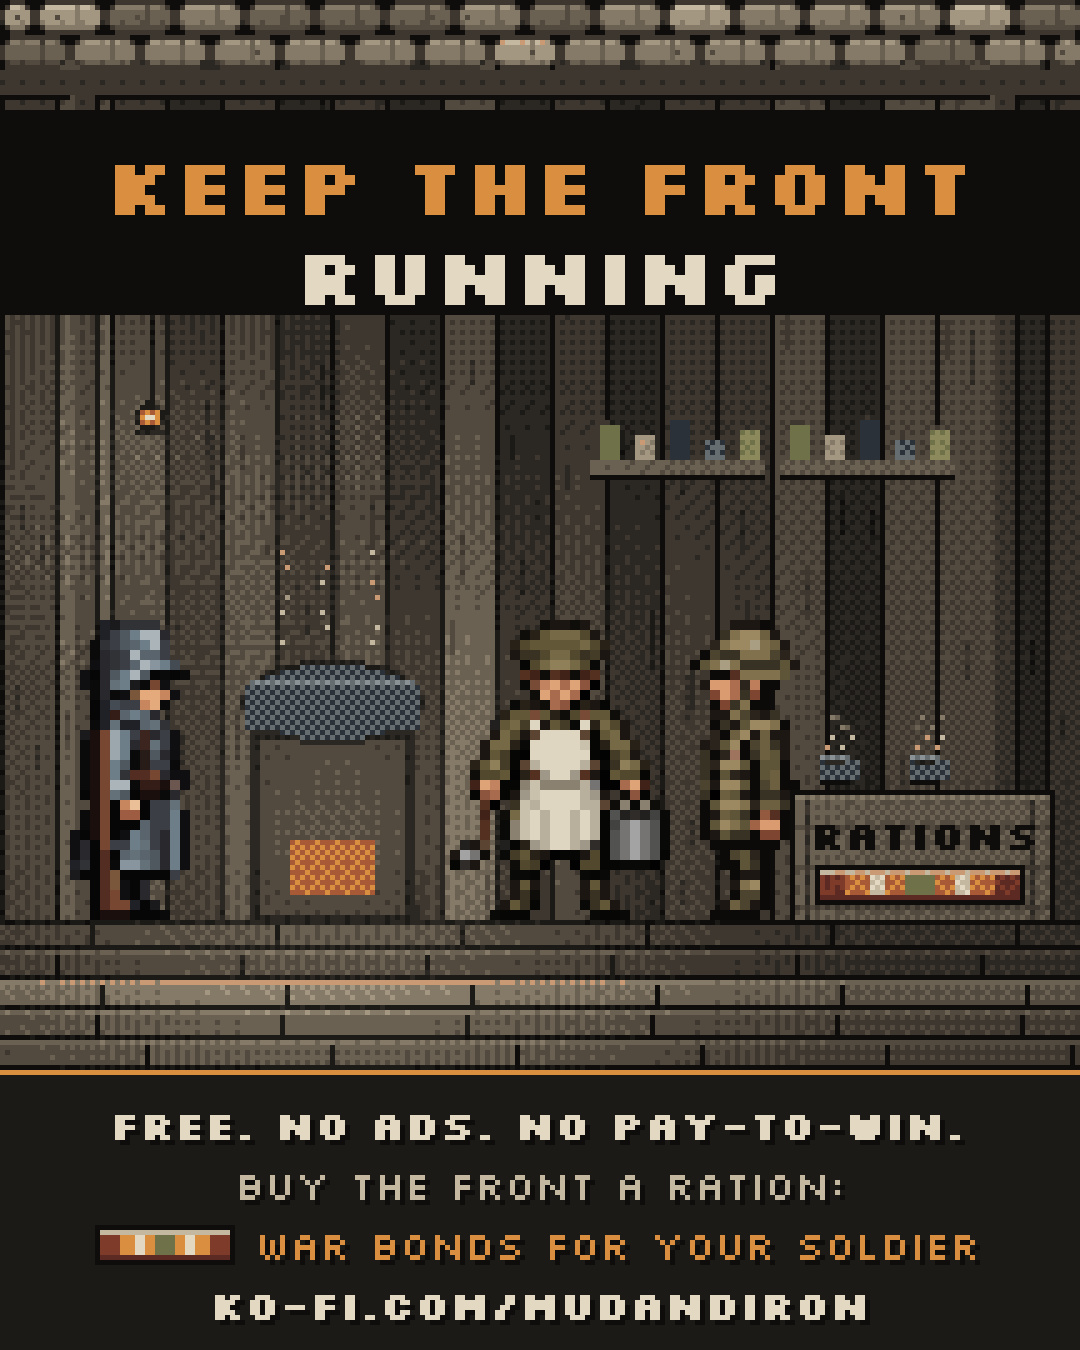
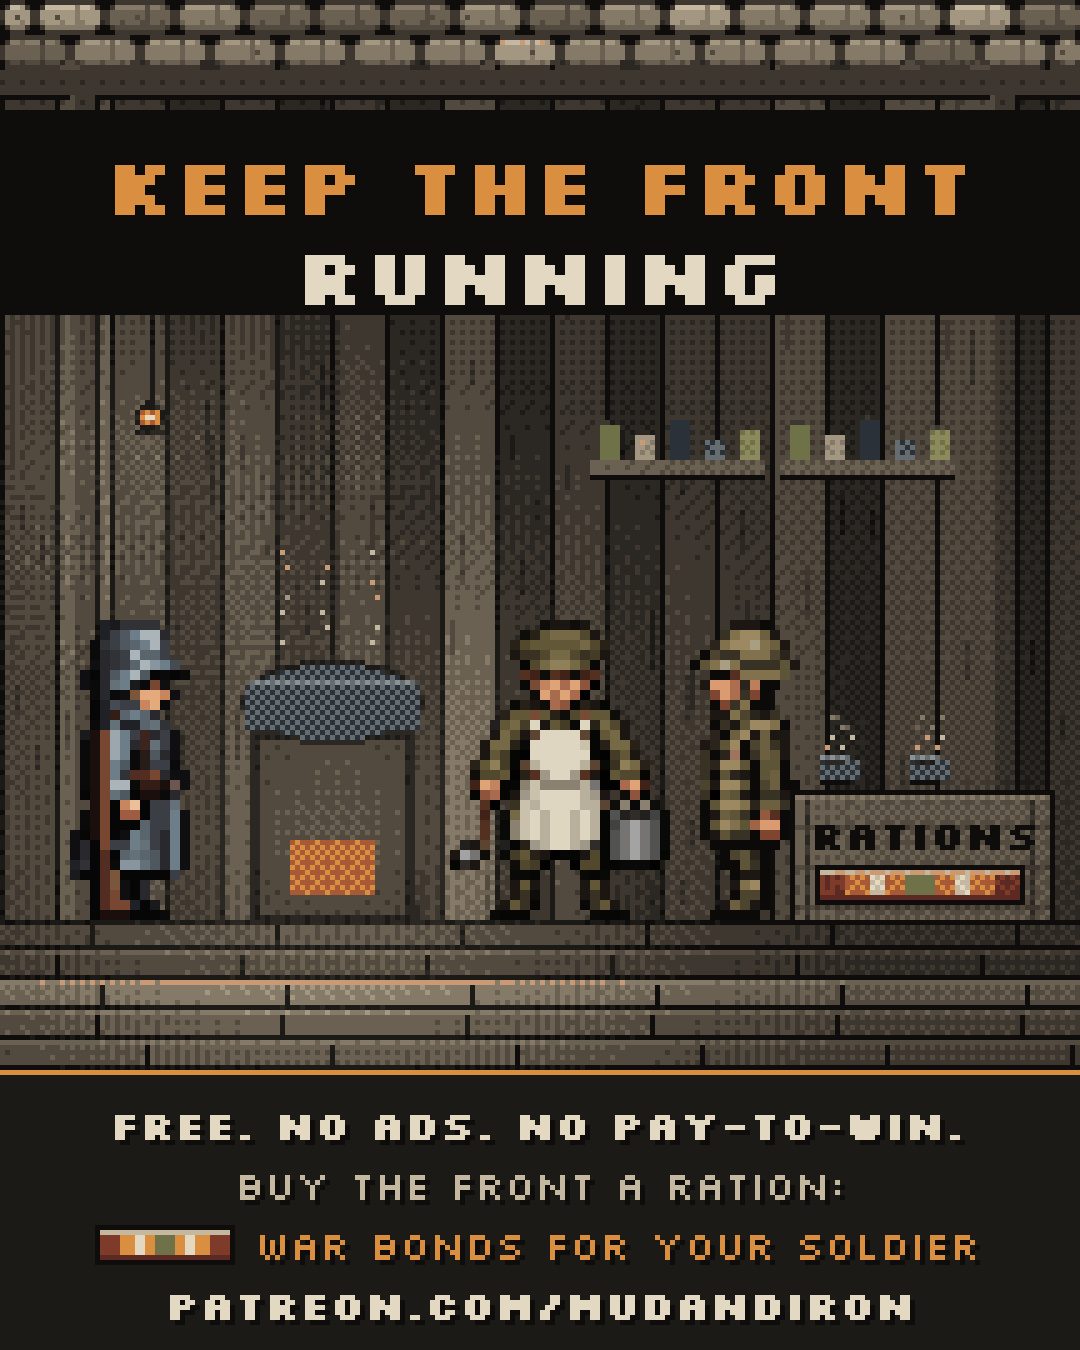
Podpora přes Patreon místo Ko-fi: texty stránky, grafika, web (tlačítka zatím skrytá)
Claude-Session: https://claude.ai/code/session_01VWWMSwJGFZow7tBNcmKaEZ

Changed region(s): [[0.1528, 0.9333, 0.8556, 0.9956]]

diff --git a/web/src/ui.js b/web/src/ui.js
@@ -82,14 +82,15 @@ export function initUI({ theme, roster, soldiers, tex, onSelect, onZoom }) {
   const ig = theme.instagram.replace('@', '');
   $('ig-link').href = `https://instagram.com/${ig}`;
   $('ig-link').textContent = theme.instagram;
-  // dobrovolná podpora (Ko-fi): tlačítko jen když je v tématu adresa
+  // dobrovolná podpora (Patreon, theme.support.platform): tlačítko jen když je v tématu adresa
   if (theme.support?.url && theme.support.buttons !== false) { // support.buttons: false = tlačítka Support dočasně skrytá (stužky dárců zůstávají)
     $('support').hidden = false;
     // stálé tlačítko u lupy: na mobilu jen ikona, na počítači i text
     $('support-fab').hidden = false;
     $('support-fab').href = theme.support.url;
     $('support-link').href = theme.support.url;
-    $('support-note').textContent = `A one-time gift, if you want to. Write your Instagram handle in the message and your soldier gets the ${theme.support.name} ribbon. Honour only, never an advantage.`;
+    $('support-note').textContent = `Optional, if you want to help. Join on ${theme.support.platform || 'our page'} and send us your Instagram handle there: your soldier gets the ${theme.support.name} ribbon. Honour only, never an advantage.`;
+    if (theme.support.platform) $('support-link').textContent = `Support the front on ${theme.support.platform}`;
   }
   $('enlist-factions').innerHTML = '';
   for (const f of theme.factions) {

diff --git a/marketing/make_support.py b/marketing/make_support.py
@@ -1,7 +1,8 @@
-"""Post „Keep the front running“ (1080×1350): výzva k dobrovolné podpoře hry na Ko-fi (https://ko-fi.com/mudandiron).
+"""Post „Keep the front running“ (1080×1350): výzva k dobrovolné podpoře hry na Patreonu (dřív Ko-fi, to platby zamítlo 14. 11.).
+K tomu grafika pro stránku Patreonu: obálka 1600×400, obrázek úrovně 920×400, avatar 512×512.
 Polní kuchyně v krytu: kuchař rozdává horké plecháčky vojákům obou stran, na bedně s příděly visí stužka War Bonds.
 Dole: hra je zdarma, bez reklam a bez pay-to-win; za ration dostane voják stužku War Bonds (jen čest).
-Použití: python marketing/make_support.py  → marketing/promo/support_1.jpg
+Použití: python marketing/make_support.py  → marketing/promo/support_1.jpg (+ support_square.jpg, patreon_cover.jpg, patreon_tier.jpg, patreon_avatar.jpg)
 """
 import os
 import sys
@@ -14,6 +15,7 @@ from day_art import planks, light, shade, sandbag_wall, lamp  # noqa: E402
 
 ROOT = os.path.dirname(os.path.dirname(os.path.abspath(__file__)))
 PROMO = os.path.join(ROOT, "marketing", "promo")
+URL = "PATREON.COM/MUDANDIRON"  # adresa stránky podpory (theme.support.url)
 
 # pruhy stužky War Bonds (stejné jako na webu: .ribbon ve web/src/style.css)
 STRIPES = ["rust", "gold", "white", "gold", "olive", "gold", "white", "gold", "rust"]
@@ -121,7 +123,8 @@ def make():
     d.rectangle((0, 22, W, 62), fill=P["ink"])
     text_c(d, W // 2, 26, "KEEP THE FRONT", font(16, True), P["gold"])
     text_c(d, W // 2, 44, "RUNNING", font(16, True), P["white"])
-    # čtvercová verze pro Ko-fi (1080×1080): scéna s titulkem a dole jeden řádek
+    patreon(im)
+    # čtvercová verze (1080×1080): scéna s titulkem a dole jeden řádek
     sq = im.crop((0, 0, W, W))
     ds = ImageDraw.Draw(sq)
     ds.rectangle((0, W - 18, W, W), fill=P["dark"])
@@ -142,10 +145,43 @@ def make():
     ribbon(d, x0, 246, scale=0.5, h=6)
     d.text((x0 + 31 + 1, 243 + 1), t, font=f, fill=P["ink"])
     d.text((x0 + 31, 243), t, font=f, fill=P["gold"])
-    text_c(d, W // 2, 255, "KO-FI.COM/MUDANDIRON", font(8, True), P["white"])
+    text_c(d, W // 2, 255, URL, font(8, True), P["white"])
     out = os.path.join(PROMO, "support_1.jpg")
     up(im, K).convert("RGB").save(out, quality=95, subsampling=0)
     print(out)
+
+
+def save(img, name, k=K):
+    out = os.path.join(PROMO, name)
+    up(img, k).convert("RGB").save(out, quality=95, subsampling=0)
+    print(out)
+
+
+def patreon(scene):
+    """grafika pro stránku Patreonu ze stejné scény (kryt s polní kuchyní)"""
+    from PIL import Image
+    # obálka 1600×400 (mřížka 320×80): vlevo název a heslo, vpravo kuchyně s vojáky obou stran
+    cov = Image.new("RGBA", (320, 80), P["ink"])
+    band = scene.crop((0, 104, W, 184))
+    cov.alpha_composite(band, (320 - W, 0))
+    d = ImageDraw.Draw(cov)
+    d.line((320 - W, 0, 320 - W, 79), fill=P["gold"])
+    text_c(d, 52, 4, "MUD", font(16, True), P["gold"])
+    text_c(d, 52, 21, "& IRON", font(16, True), P["white"])
+    text_c(d, 52, 42, "KEEP THE FRONT", font(8), P["pale"])
+    text_c(d, 52, 52, "RUNNING", font(8), P["pale"])
+    ribbon(d, 26, 66, scale=1, h=7)
+    save(cov, "patreon_cover.jpg")
+    # obrázek úrovně War Bonds 1080×470 (mřížka 216×94): celá kuchyně, vojáci obou stran, bedna se stužkou
+    tier = scene.crop((0, 92, W, 186)).copy()
+    save(tier, "patreon_tier.jpg")
+    # avatar 512×512 (mřížka 64×64 ×8): stužka War Bonds a název na tmavém poli (Patreon ho ořízne do kruhu)
+    av = Image.new("RGBA", (64, 64), P["dark"])
+    d = ImageDraw.Draw(av)
+    text_c(d, 32, 14, "MUD", font(8, True), P["gold"])
+    text_c(d, 32, 24, "& IRON", font(8, True), P["white"])
+    ribbon(d, 6, 40, scale=1, h=8)
+    save(av, "patreon_avatar.jpg", 8)
 
 
 if __name__ == "__main__":

diff --git a/marketing/patreon.md b/marketing/patreon.md
@@ -1,0 +1,59 @@
+# Patreon: MUD & IRON (texty a grafika ke vložení)
+
+Stránka: https://www.patreon.com/mudandiron (adresa je i v `theme.support.url`; když bude jiná, změň ji tam).
+Grafika (`python marketing/make_support.py`): `marketing/promo/patreon_cover.jpg` (obálka 1600×400),
+`patreon_avatar.jpg` (profilový obrázek 512×512), `patreon_tier.jpg` (obrázek úrovně), `support_square.jpg` (čtverec do příspěvků).
+
+Nastavení při zakládání: kategorie **Games** (Video games), obsah **není pro dospělé** (válka bez krve ve stylu pixel artu), měna USD.
+
+## Name
+Mud & Iron
+
+## What are you creating? (krátké heslo)
+a free WW1 trench game you play from Instagram comments
+
+## About (O stránce)
+Mud & Iron is a free pixel-art WW1 trench war played on Instagram.
+Comment HEGEMONY or CONCORD under a post and you get your own soldier on a living front at mudandiron.web.app. Every morning at 13:00 UTC the Trench Gazette prints what happened: who was hit, who held the line, which side took the next hill. Every soldier keeps a diary that grows day by day.
+
+It is made by one person, every day. No ads, no pay-to-win, nothing to buy in the game.
+
+Patreon keeps the front running: the servers, the art and the time it takes to write a new edition every morning.
+
+What you get:
+🎗 The War Bonds ribbon for your soldier: next to the name on the front, on the soldier card and on the "I ENLISTED" share image.
+📰 A thank-you in the next Trench Gazette.
+📓 One line in your soldier's diary that stays there for good.
+
+It is honour only. A ribbon never makes a soldier shoot straighter or live longer.
+
+## Úroveň (tier) 1: War Bonds, 3 USD měsíčně
+Obrázek: `patreon_tier.jpg`
+
+**Name:** War Bonds
+**Price:** $3 / month
+**Description:**
+Buy the front a ration every month.
+🎗 The War Bonds ribbon for your soldier (on the front, on the card and on the share image)
+📰 Your name in the next Trench Gazette
+📓 A line in your soldier's diary: the quartermaster pins the ribbon on personally
+The ribbon stays, even if you stop later. Honour only, never an advantage.
+
+**Welcome note (zpráva po přihlášení):**
+Thank you, soldier. The front remembers who kept it fed.
+To get your ribbon, reply to this message with your Instagram handle (the one you used to enlist). Your soldier gets the War Bonds ribbon within a day, and the Trench Gazette thanks you in the next morning edition.
+Not on the front yet? Comment HEGEMONY or CONCORD under any post on @mudandiron first.
+
+## Volitelně: jednorázový dar
+Patreon umí i jednorázový nákup v sekci **Shop** (když ji účet nabízí): položka „A Ration for the Front“ za 3 USD, popis stejný jako u úrovně, se stejnou stužkou.
+Na předplatné tlačit nemusíš: kdo chce dát jednou, přihlásí se a po měsíci zruší, stužka zůstane.
+
+## Jak se udělí stužka (beze změny proti Ko-fi)
+Patron napíše na Patreonu své IG jméno → uživatel ho pošle Claudovi → příkaz do `data/commands.json`:
+`{ "id": "support-<handle>-<datum>", "cmd": "support", "handle": "<ig>" }` (smyčka do ~5 min; stužka, zápis v deníku, poděkování v novinách).
+
+## Až bude stránka hotová
+1. Ověřit adresu stránky a případně ji opravit v `theme.support.url`.
+2. Zapnout tlačítka na webu: `theme.support.buttons: true` (tlačítko „☕ Support“ u lupy a „Support the front on Patreon“ v panelu náboru).
+3. Odkaz v biu IG (Linktree nebo druhý odkaz v biu).
+4. Post `support-patreon` (`marketing/drafts/support-patreon.draft.json`) jen se souhlasem a časem.

diff --git a/CLAUDE.md b/CLAUDE.md
@@ -68,7 +68,7 @@ silné bombardování se smrtí přímým zásahem, spojař proti granátům) je
 - **Hlasování (od 2026-11-12):** jedno hlasování, tři stejné volby pro obě strany, stejný účinek, funkční kdykoli (DUGOUTS, DOCTOR, AMMO; `vote-orders-d4` ve frontě bez termínu, `docs/MECHANICS.md`). Na mapě je vidět kryty, lékaře u obvaziště a sklad munice (`web/src/orders-fx.js`, dev náhled `/?orders=0:DUGOUTS,0:DOCTOR,0:AMMO`). Žádné dvě nabídky podle strany.
 - **Do fronty (`queue.json`) patří jen schválené věci** (pravidlo uživatele 2026-11-12): rozpracovaný post nebo reel se do ní nedává; návrh položky drž mimo (např. `marketing/reels/<id>.draft.json`) a přidej ho až po výslovném schválení. Teď rozpracováno: `reel-claim` (`marketing/reels/claim.draft.json`). Uloženo na později: post na podporu přes Ko-fi `support-kofi` (`marketing/drafts/support-kofi.draft.json`, obrázek `marketing/promo/support_1.jpg`; uživatel ho teď nechce tlačit, Ko-fi je zatím jen tlačítko na webu).
 - **Ke každé novince i story (pravidlo uživatele 2026-11-12):** když přidáš do fronty post nebo reel, přidej i story: `node tools/story-for.mjs <id> [--still snimek.png]` (obrázek 1080×1920 `marketing/make_story.py` + položka `story-<id>`, výchozí čas = čas příspěvku + 10 min). U reelu dej čistý snímek ze záběru bez titulků (`--still`), u postu se použije post samotný. Stories se zveřejňují stejně jen se souhlasem uživatele (schválení příspěvku platí i pro jeho story).
-- **Podpora přes Ko-fi = War Bonds** (od 2026-11-12, `docs/MECHANICS.md`): stránka **https://ko-fi.com/mudandiron** (`theme.support.url`), jednorázový dobrovolný dar („ration“, 3 $), jen čest, žádná herní výhoda, žádné stupně ani počítání darů.
+- **Podpora = War Bonds, od 14. 11. přes Patreon** (Ko-fi zamítlo platby kvůli Stripe; texty a grafika stránky `marketing/patreon.md`, úroveň War Bonds 3 USD/měs., post `support-patreon` jen jako návrh; tlačítka na webu skrytá, dokud uživatel neověří stránku). Dřív Ko-fi (od 2026-11-12, `docs/MECHANICS.md`): stránka https://ko-fi.com/mudandiron, jednorázový dobrovolný dar („ration“, 3 $), jen čest, žádná herní výhoda, žádné stupně ani počítání darů.
   Dárce napíše do zprávy na Ko-fi IG jméno, **uživatel mi ho pošle** a já přidám příkaz `{ id: "support-<handle>-<datum>", cmd: "support", handle }` do `data/commands.json` (smyčka do ~5 min:
   stužka u jména a řádek na kartě „War Bonds: supported the making of Mud & Iron“, 🎗 v albu rodu, stužka na obrázku „I ENLISTED“, zápis do deníku „{name} bought War Bonds for the front. The quartermaster pinned the ribbon on personally: 'The front remembers who kept it fed.'“,
   v příštích novinách „The front thanks {names}, who bought War Bonds and kept the guns fed.“). Server na webhook Ko-fi nemáme (Spark), proto ručně.

diff --git a/docs/MECHANICS.md b/docs/MECHANICS.md
@@ -348,3 +348,9 @@ Simulace (4 losy, od vítězství na Hill 304): po 7 dnech Hegemonie 4–9 / Con
 ## 2026-11-14: Bez denních mezí raněných (NASAZENO na pokyn uživatele)
 `battle.daily` (aspoň 1 a pod granáty nejvýš 30 raněných na 80 vojáků strany) odstraněno, ztráty dává jen náhoda. Simulace (20 běhů × 3 dny) s mezemi i bez nich vyšla stejně (H 13,3 padlých / 73 raněných, C 2,3 / 41): meze se dnes neuplatňovaly.
 Nasycení palby (`roles.saturation` = 1) zůstává: když má střelec u sebe víc vlastních střelců než nepřátel na dostřel, každý trefí méně (střílí po stejných cílech).
+
+### 2026-11-14: podpora přechází z Ko-fi na Patreon (NASAZENO, tlačítka zatím skrytá)
+Ko-fi zamítlo platby (problém s účtem Stripe). War Bonds zůstávají stejné (stužka, zápis, poděkování v novinách, jen čest), mění se jen služba:
+`theme.support.url` = https://www.patreon.com/mudandiron, `theme.support.platform` = "Patreon" (texty na webu: „Support the front on Patreon“).
+Úroveň **War Bonds 3 USD měsíčně**, stužka zůstává i po zrušení. Patron pošle na Patreonu IG jméno, udělení dál ručně příkazem `support`.
+Texty stránky, úrovně a uvítací zprávy: `marketing/patreon.md`; grafika `marketing/make_support.py` (patreon_cover/avatar/tier). Tlačítka na webu zapnout (`buttons: true`) až po ověření stránky.
